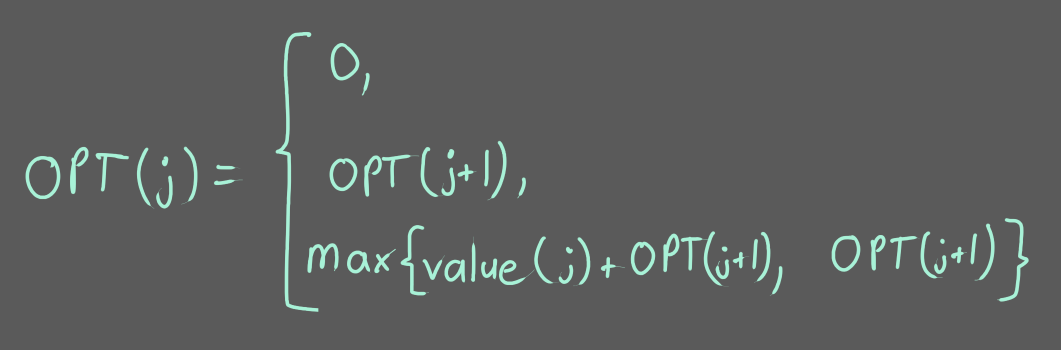
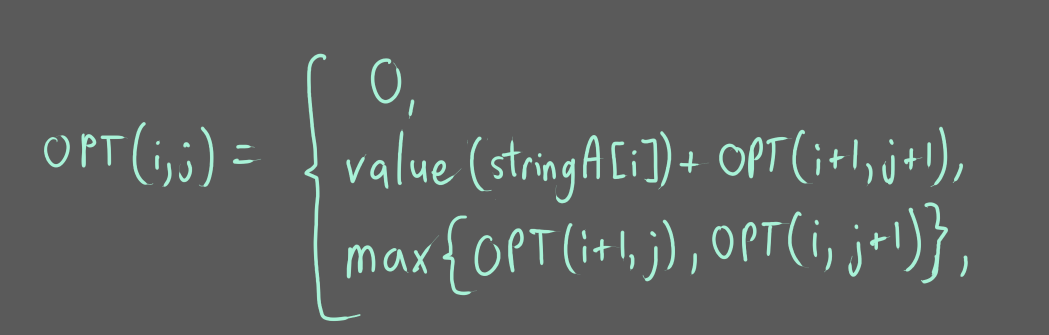
Updated Readme changes

Changed region(s): [[0.0, 0.1194, 0.9762, 0.8955], [0.3051, 0.9254, 0.3356, 0.9552], [0.2745, 0.0896, 0.3051, 0.1194]]

diff --git a/README.md b/README.md
@@ -5,5 +5,70 @@
 
 ## Q2 - Recurrence Equation
 
-Def: OPT(j) finds the maximum value v of a subsequence of characters j, ..., len(A) in string A that also exists as a subsequence in string B
-OPT = {0; OPT(j+1); max{value(j) + OPT(j+1), OPT(j+1)}}
+Def: OPT(i, j) finds the maximum value of the HVLCS between string A and string B from i, ..., len(A) - 1 where i is the current index in A and j, ..., len(B) - 1 where j is the current index in B
+
+![OPT Equation](/Images/OPTEquation.png)
+
+This OPT equation covers 3 cases: 
+1) The base case for when the i or j reaches the end of A or B respectively and there can no longer be any additions to the subsequence.
+2) The case where A[i] and B[j] match and the value of that matched character is added to the OPT of all following indexes
+3) The case where A[i] != B[j] and the optimal value is the maximum value between OPT(i+1, j) and OPT(i, j+1)
+
+This covers all potential cases. At each index pairing the value can be stored for future reference, meaning that the entire process doesn't need to be repeated once the pair has been reached once.
+
+## Q3 - Big Oh
+
+### Pseudocode:
+//These all exist within a class that stores A, B, and dictionaries M for memoization and C for character values
+//The user initializes those values with the given strings and calls HVLCS
+
+OPT(i, j):
+    if (i, j) in M:
+            return M[(i, j)]
+        
+        if (i == len(A) or j == len(B)):
+            return 0
+
+        value = 0
+        if (A[i] == B[j]):
+            value = (C[A[i]] + OPT(i+1, j+1))
+        
+        else:
+            v1 = OPT(i+1, j)
+            v2 = OPT(i, j+1)
+            value = (max(v1, v2))
+
+        M[(i, j)] = value
+        return value
+
+backtrack():
+    i = 0
+    j = 0
+    subsequence = ""
+    while i < (len(A)) and j < (len(B)):
+        if (A[i] == B[j]):
+            subsequence += A[i]
+            i+=1
+            j+=1
+        else:
+            if i+1 < len(A) and j+1 < len(B):
+                if M[(i+1, j)] > M[(i, j+1)]:
+                    i+=1
+                else:
+                    j+=1
+            else:
+                if i+1 < len(A):
+                    i+=1
+                else:
+                    if j+1 < len(B):
+                        j+=1
+                    else:
+                        break
+    return subsequence
+
+findHVLCS(self):
+        print(f"{OPT(0, 0)}\n{backtrack()}")
+        return
+
+### Runtime:
+The Runtime for the algorithm would be O(n * m) where n is the length of string A and m is the length of string B. This is because in the worst case scenario where no characters are shared, the program will go through every index combination of A and B before realizing this making OPT(n * m). Backtracking is only O(n) since it is a single loop that runs through the memoization dictionary and is outscaled by the OPT function.
